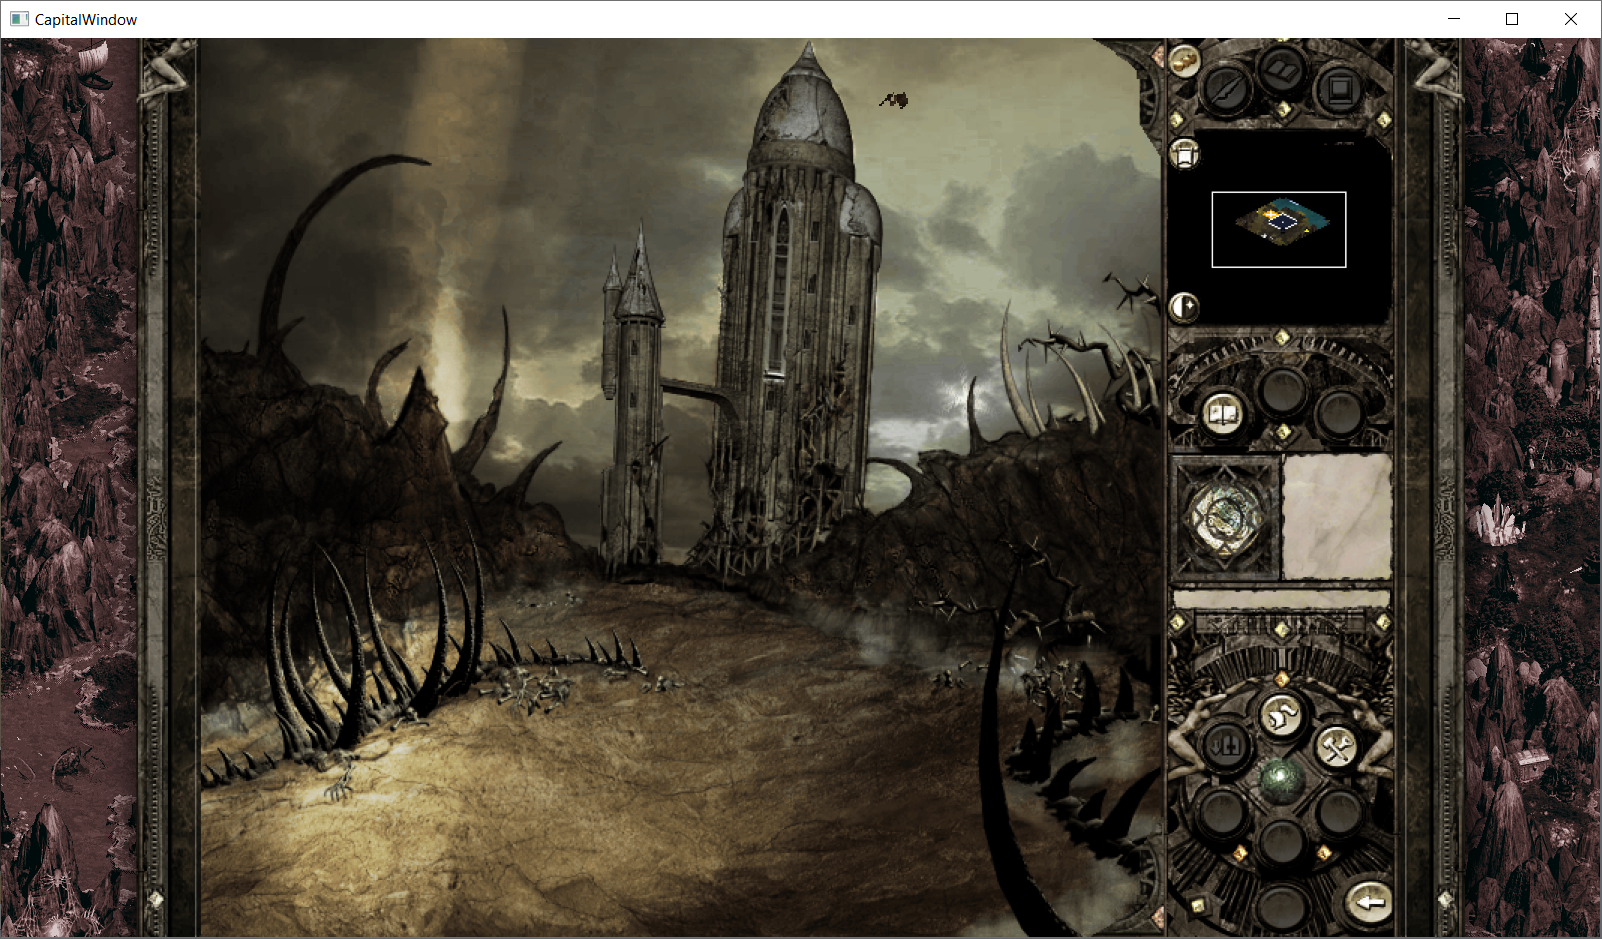
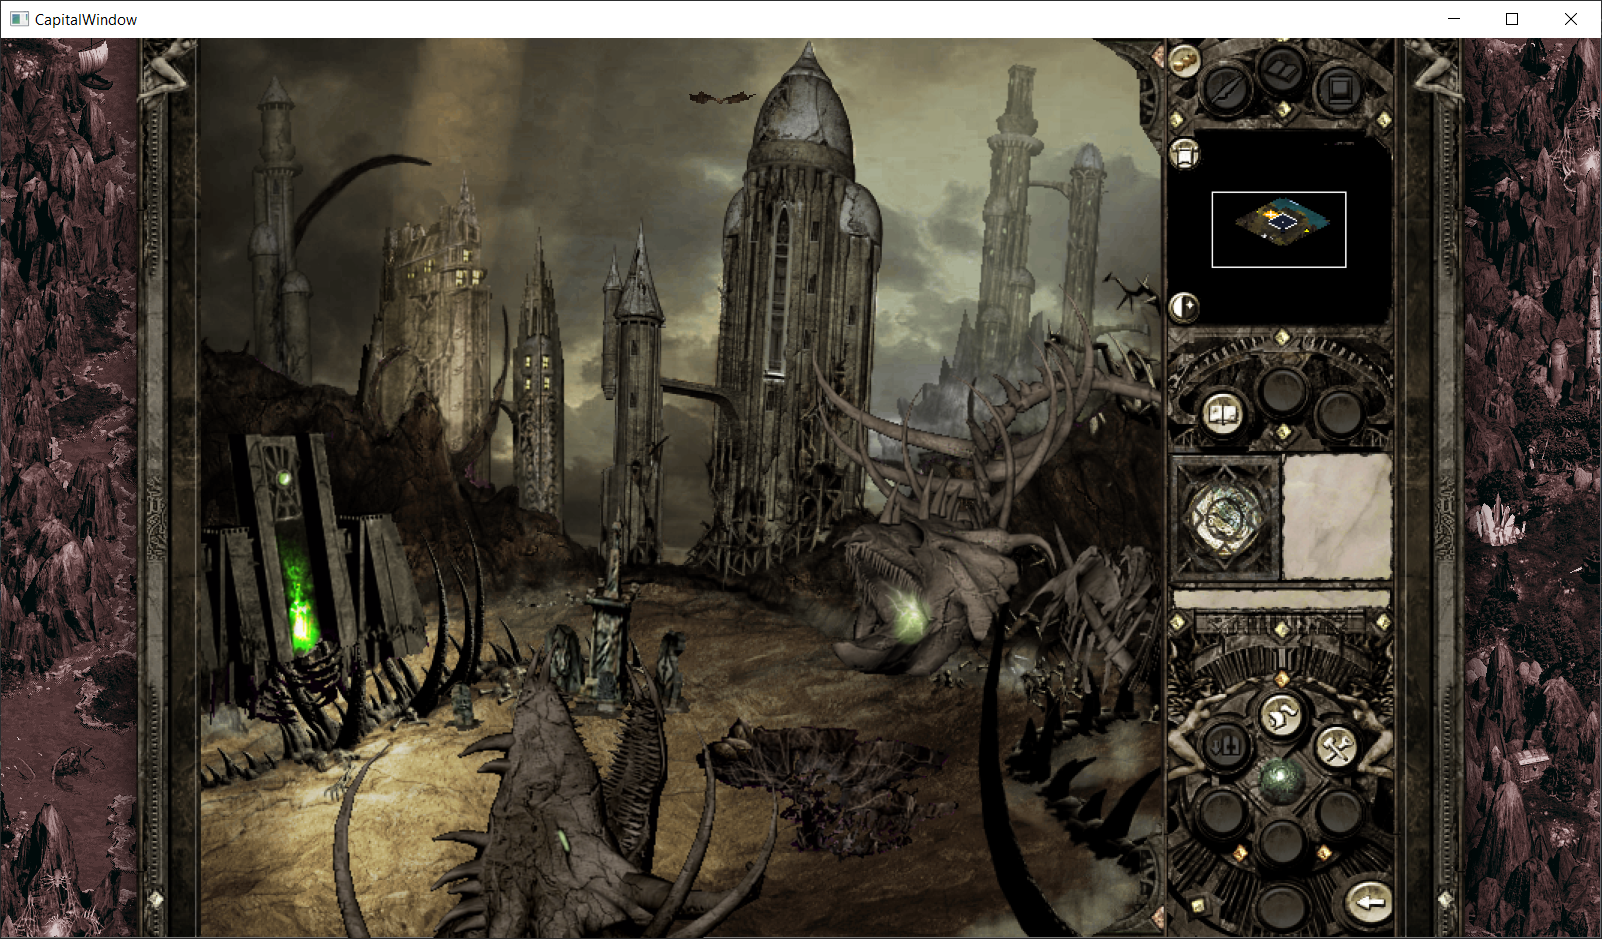
Updated about game section. Added some screenshots.

diff --git a/common/settings.py b/common/settings.py
@@ -103,6 +103,9 @@ DESCRIPTIONS = {
             'Созданы кампании',
             'Добавлены игровые сессии',
             'Автобой',
+            'Выбор цели прямо на поле битвы',
+            'Ускорены gif-анимации',
+            'Добавлена графика построек',
             'Проект доведен до стадии MVP',
             marker="✅ ",
         ),
